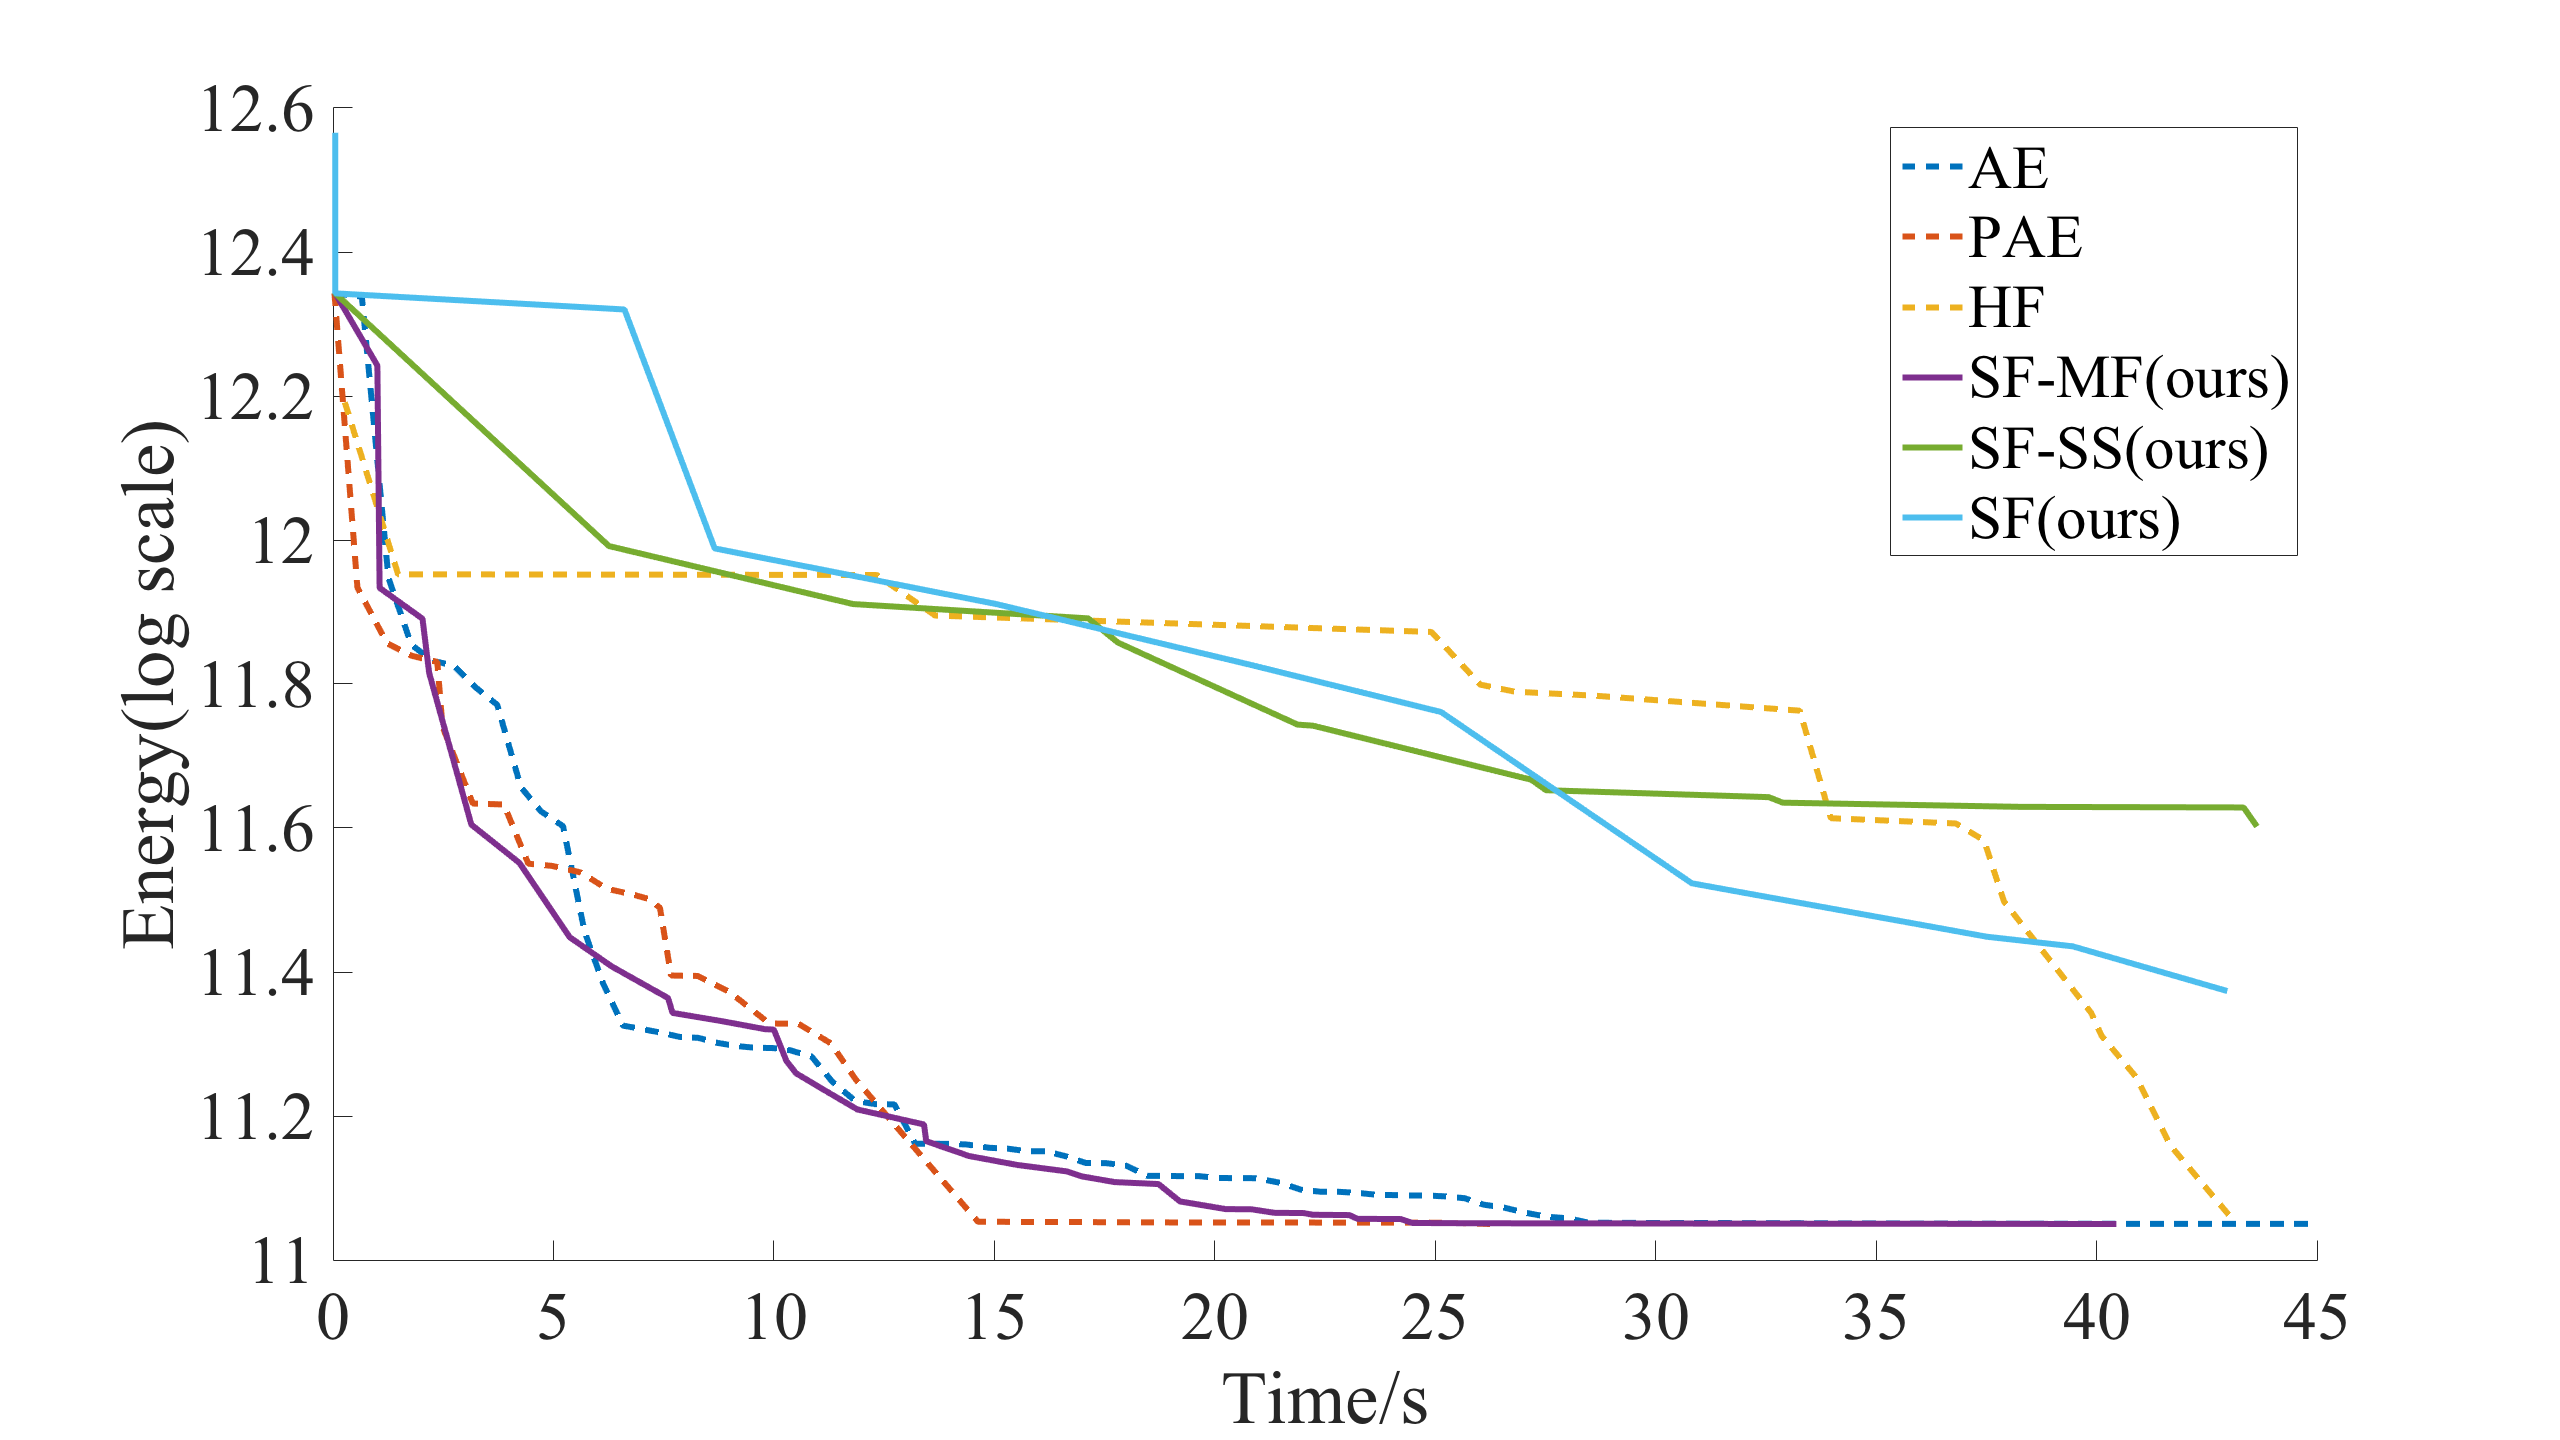
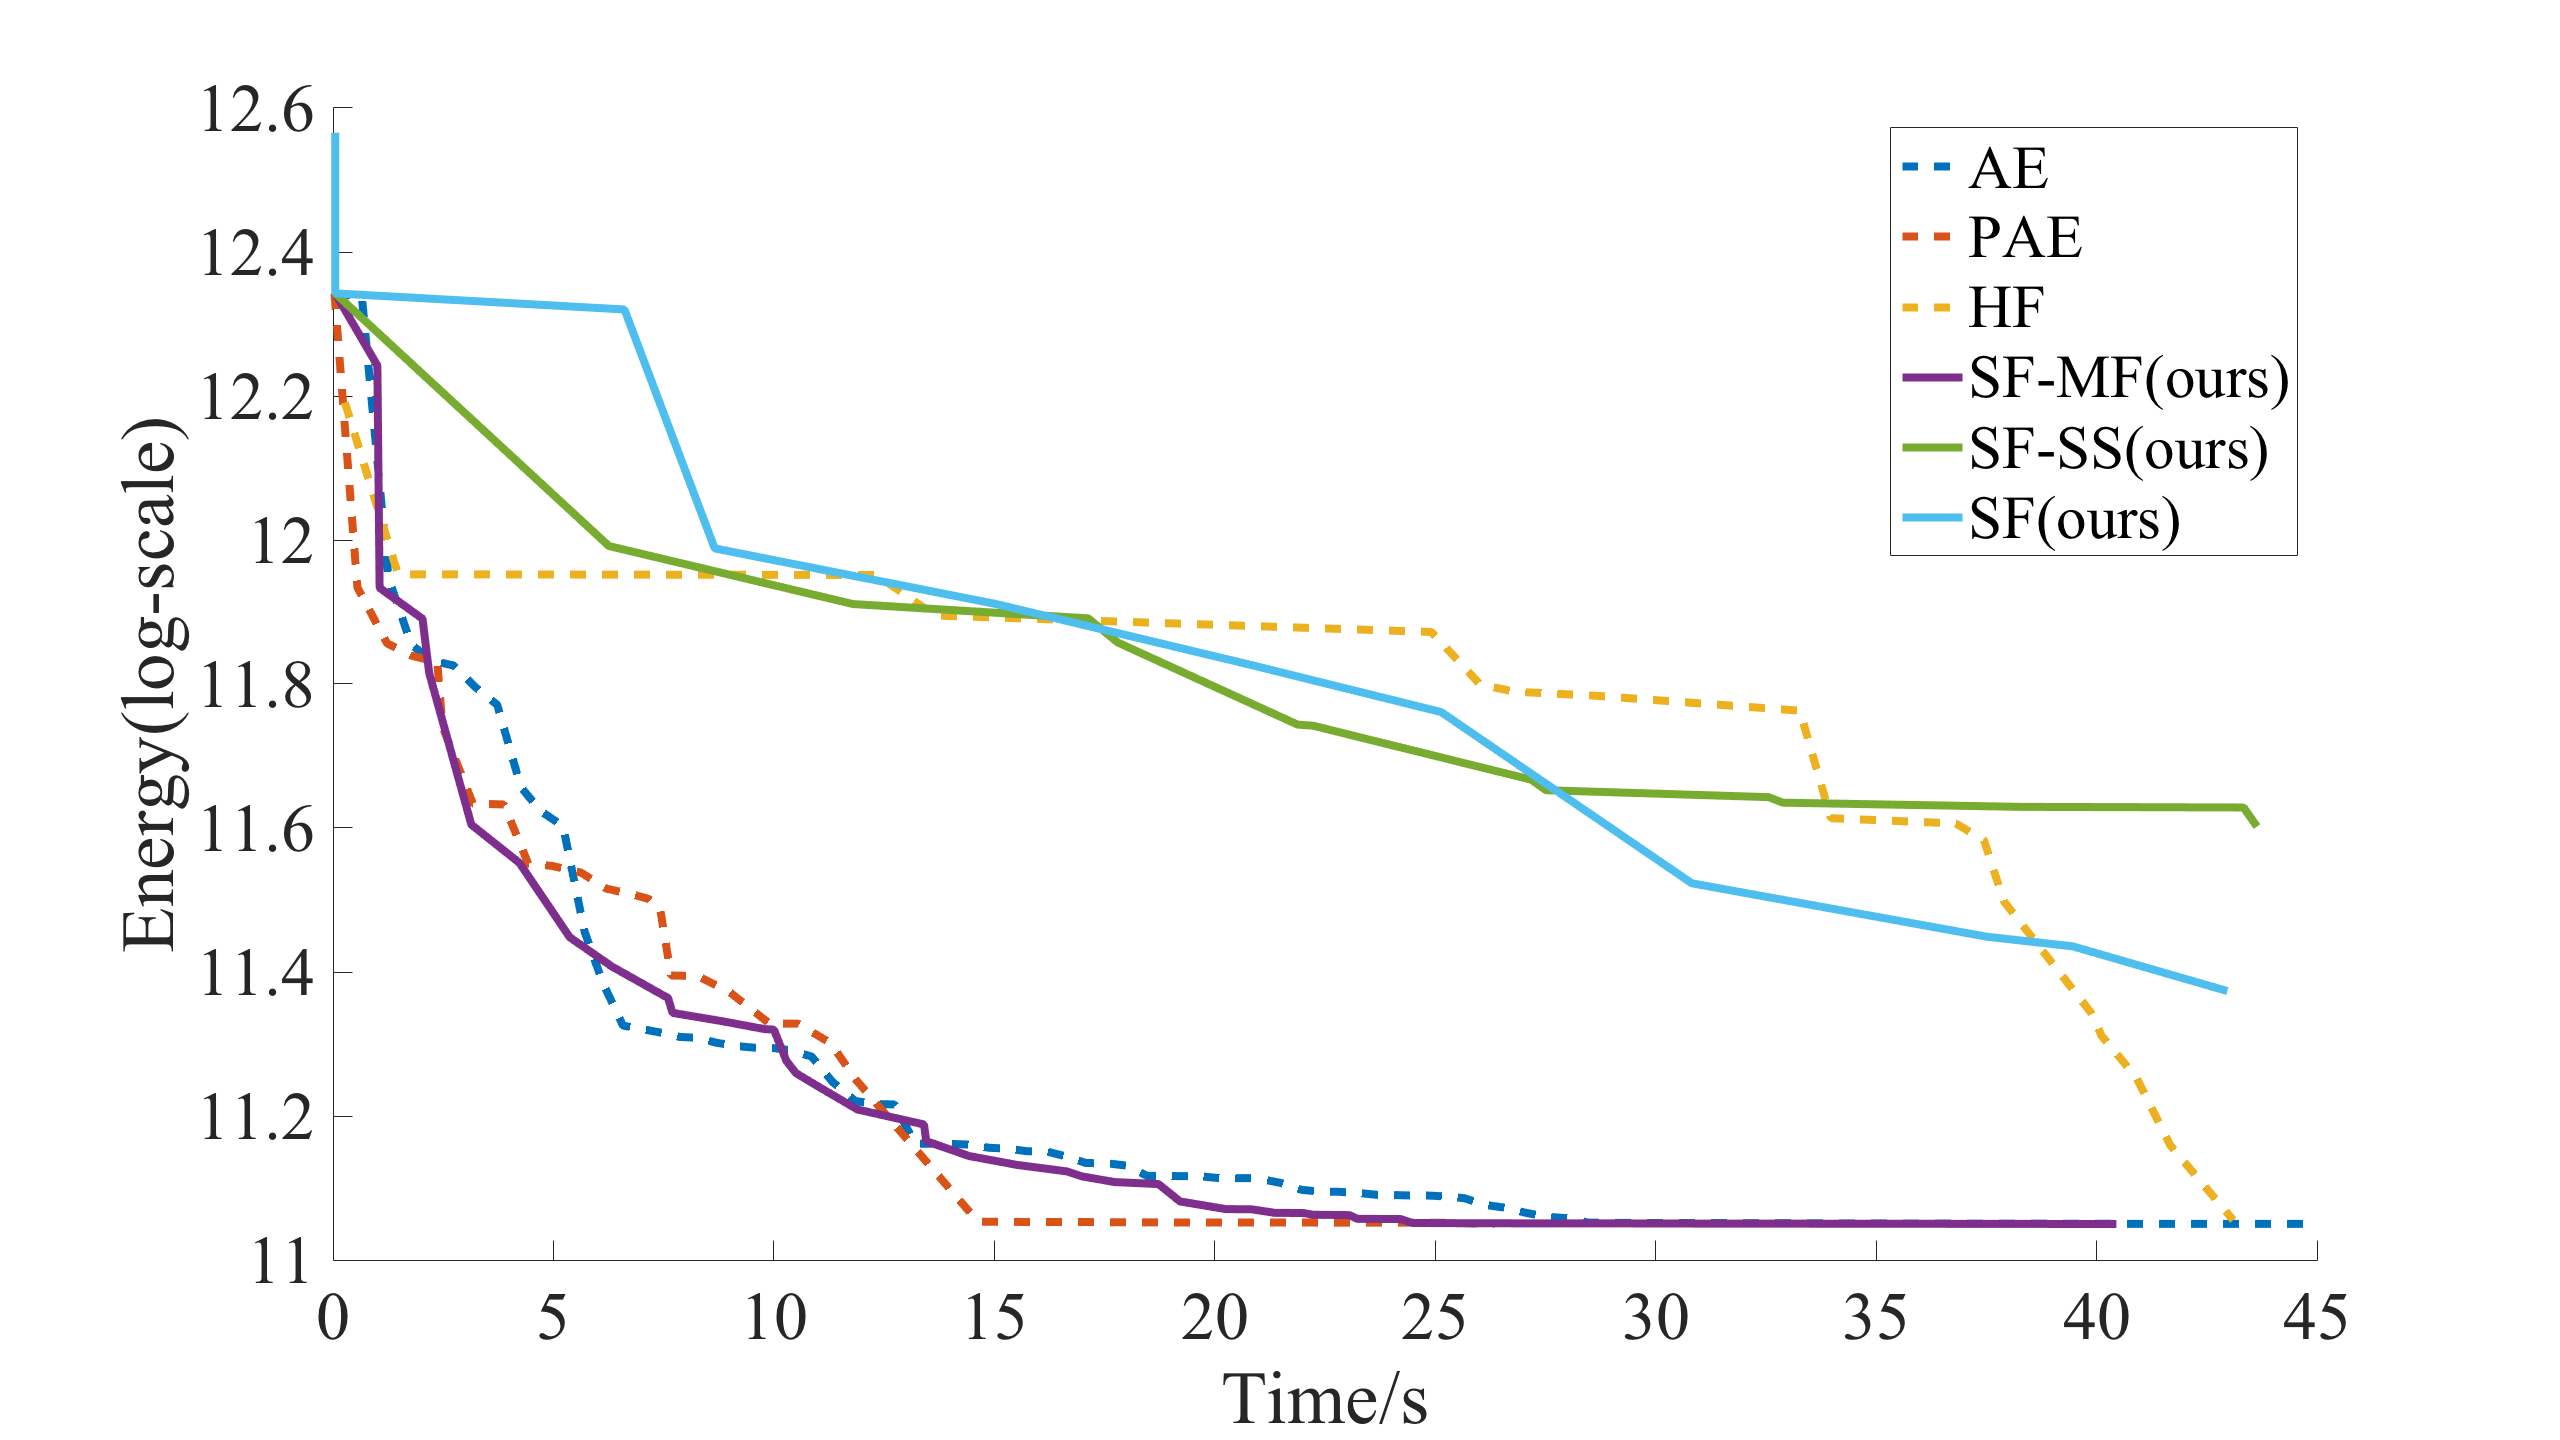
Hang

diff --git a/paper/result_stereo.tex b/paper/result_stereo.tex
@@ -21,21 +21,25 @@ system to be the energy of the best solution found so far.
 \begin{figure}[tb]
 \centering
 \includegraphics[width=0.8\textwidth]{figure/stereo_global.png}
-\caption{Energy plots for the stereo problem. The energy is in the log
-scale. For a multi-threading algorithm, the energy at a given moment is
+\caption{Energy plots for the stereo problem. For a multi-threading algorithm, the energy at a given moment is
 defined to be the best solution so far.}
 \label{fig:stereo_global}
 \end{figure}
 %
 
-One unusual outcome is that Sequential Alpha Expansion and Parallel
-Alpha Expansion (PAE) have the same convergence speed, indicating that
-the stereo problem is a very easy one.
+%One unusual outcome is that Sequential Alpha Expansion and Parallel
+%Alpha Expansion (PAE) have the same convergence speed, indicating that
+%the stereo problem is a very easy one.
+PAE and SF-MF converges faster than the single thread AE. However, the
+speedup is not significant, which confirms the fact that the problem
+is an easy one.
 %This is well known in a community and this fact was rather expected.
-Our approaches with multi-way fusion (SF-SS or SF) are the slowest kind,
-because the TRW-S for multi-way fusion is slower than multiple Alpha
-Expansion steps, and this stereo problem is too easy to gain benefits
-through mulit-way fusion.
+Our approaches with multi-way fusion (SF-SS or SF) are the slowest
+kind, because the TRW-S for multi-way fusion is slower than multiple
+Alpha Expansion steps, and this stereo problem is too easy to gain
+benefits through mulit-way fusion. HF doesn't perform well either
+because for nodes with two non-leaf children, the algorithm has to
+perform QPBO.
 %
 %Another interesting observation is that the Hierarchical Fusion can
 %achieve good energy only when they merge solutions at the top of the
@@ -65,28 +69,31 @@ makes dramatic decrease at the final fusion.
 %scenario where we need to query the best solution so far before the
 %whole optimization converges, SF-MF architecture is a better choice.
 
-\begin{figure}[tb]
-\includegraphics[width=\columnwidth]{figure/stereo_threads.png}
-\caption{Energy plots per thread for the stereo proble for SF-MF (left) and
-Parallel Alpha Expansion (right).
-} \label{fig:stereo_threads}
+\begin{figure}[!h]
+\centering
+\begin{subfigure}{0.49\textwidth}
+\includegraphics[width=\textwidth]{figure/stereo_thread_pae.png}
+\caption{}
+\end{subfigure}
+\begin{subfigure}{0.49\textwidth}
+\includegraphics[width=\textwidth]{figure/stereo_thread_sf.png}
+\caption{}
+\end{subfigure}
+\caption{Energy plots per thread for the stereo proble for (a) PAE and (b)
+SF-MF.}
+\label{fig:stereo_threads}
 \end{figure}
 
-For an easy optimization problem such as stereo with strong unary terms
-and submodular pairwise terms, our full architecture with solution
-sharing and multi-way fusion actually makes convergence slower due to the
-overhead of fusion and multi-threading.
-
-
+For an easy optimization problem such as stereo with strong unary
+terms and submodular pairwise terms, our full architecture with
+solution sharing and multi-way fusion actually makes convergence
+slower compared with PAE due to overhead of sophisticated fusion.
 
 
 % over-sophisticated fusion algorihtm and multi-threading
 % overhead. However, we can easily configure the architecture to make it
 % better fit the problem, e.g. turn off multiway fusion and/or solution
 % sharing.
-
-
-
 
 
 % We define the energy of

diff --git a/stereo/code/plotEnergy.m b/stereo/code/plotEnergy.m
@@ -30,7 +30,7 @@ for i=1:nm
 end
 legend(legend_name_global);
 xlabel('Time/s');
-ylabel('Energy(log scale)');
+ylabel('Energy(log-scale)');
 fig_glb.Position = [500,500,1280,720];
 
 %subfigure for thread
@@ -42,23 +42,32 @@ end
 
 hold off;
 
-% for i=2:2:4
-%     fig_thread = figure(i+1);
-%     hold on;
-%     mid = i;
-%     for j=1:nt
-%         filepath = sprintf('%s/plot_%s_thread%d.txt', dataset, method_name{mid}, j-1);
-%         disp(filepath);
-%         thd = dlmread(filepath);
-%         thd_trun = thd(thd(:,1) < max_time / 2, :);
-%         plot(thd_trun(:,1), log(thd_trun(:,2)), 'LineWidth', line_width);
-%     end
-%     legend('Thread 1', 'Thread 2', 'Thread 3', 'Thread 4');
-%     xlabel('Time/s');
-%     ylabel('Energy');
-%     fig_thread.Position = [500,500,640,500];
-%     hold off;
-% end
+set(0, 'DefaultAxesFontName', 'Times New Roman');
+set(0, 'DefaultAxesFontSize',30);
+set(0, 'DefaultTextFontname', 'Times New Roman');
+set(0, 'DefaultTextFontSize', 30);
+line_width = 2.0;
+for i=4:-2:2
+    fig_thread = figure(i+1);
+    hold on;
+    mid = i;
+    for j=1:nt
+        filepath = sprintf('%s/plot_%s_thread%d.txt', dataset, method_name{mid}, j-1);
+        disp(filepath);
+        thd = dlmread(filepath);
+        thd_trun = thd(thd(:,1) < max_time / 2, :);
+        plot(thd_trun(:,1), log(thd_trun(:,2)), 'LineWidth', line_width);
+    end
+    if i==2
+        legend('PAE Thread 1', 'PAE Thread 2', 'PAE Thread 3', 'PAE Thread 4');
+    else
+        legend('SM-MF(ours) Thread 1', 'SM-MF(ours) Thread 2', 'SM-MF(ours) Thread 3', 'SM-MF(ours) Thread 4');
+    end
+    xlabel('Time/s');
+    ylabel('Energy(log-scale)');
+    fig_thread.Position = [500,500,640,500];
+    hold off;
+end
 
 %draw energy vs. number of threads
 % figure_nthreads = figure(10);
